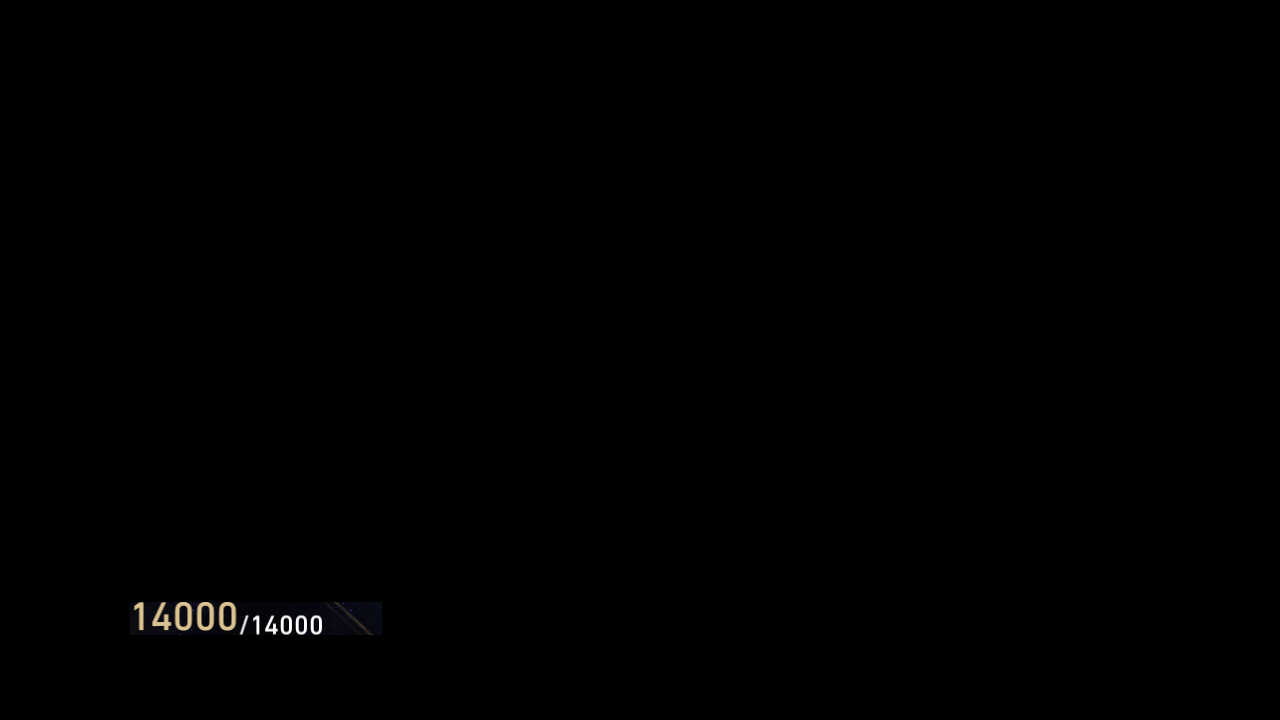
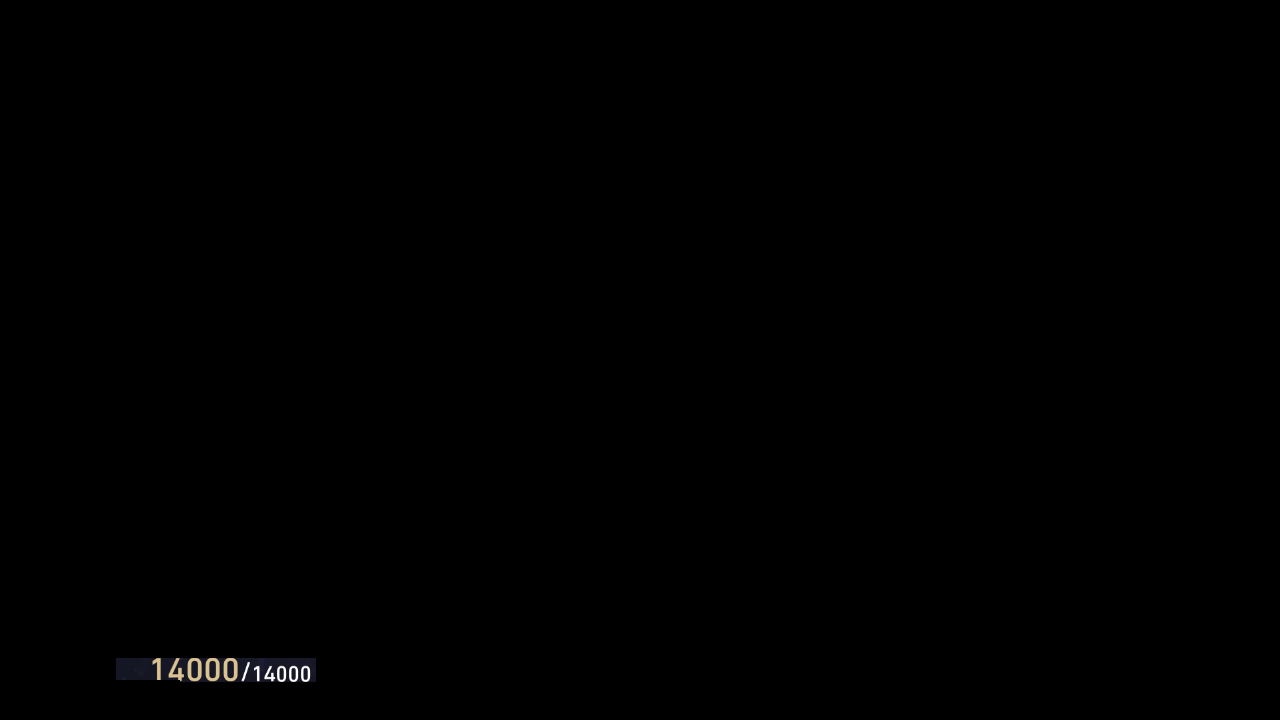
Upd: OCR_WEEKLY_POINT

Changed region(s): [[0.0938, 0.825, 0.25, 0.8861], [0.0938, 0.9167, 0.25, 0.9472], [0.25, 0.825, 0.2812, 0.8556]]

diff --git a/tasks/rogue/entry/entry.py b/tasks/rogue/entry/entry.py
@@ -393,6 +393,7 @@ class RogueEntry(RouteBase, RogueRewardHandler, RoguePathHandler, DungeonUI):
             self._rogue_teleport()
 
         # is_page_rogue_main()
+        self._rogue_theme_set(world)
         self._rogue_world_wait()
 
         # Update rogue points
@@ -410,7 +411,6 @@ class RogueEntry(RouteBase, RogueRewardHandler, RoguePathHandler, DungeonUI):
         self.check_stop_condition()
 
         # Enter
-        self._rogue_theme_set(world)
         self._rogue_world_set(world)
         # Check stop condition again as immersifier updated
         try:

diff --git a/tasks/rogue/assets/assets_rogue_entry.py b/tasks/rogue/assets/assets_rogue_entry.py
@@ -17,10 +17,10 @@ OCR_WEEKLY_POINT = ButtonWrapper(
     name='OCR_WEEKLY_POINT',
     share=Button(
         file='./assets/share/rogue/entry/OCR_WEEKLY_POINT.png',
-        area=(130, 602, 382, 635),
-        search=(110, 582, 402, 655),
-        color=(54, 51, 50),
-        button=(130, 602, 382, 635),
+        area=(116, 658, 316, 682),
+        search=(96, 638, 336, 702),
+        color=(74, 70, 72),
+        button=(116, 658, 316, 682),
     ),
 )
 OCR_WORLD = ButtonWrapper(
